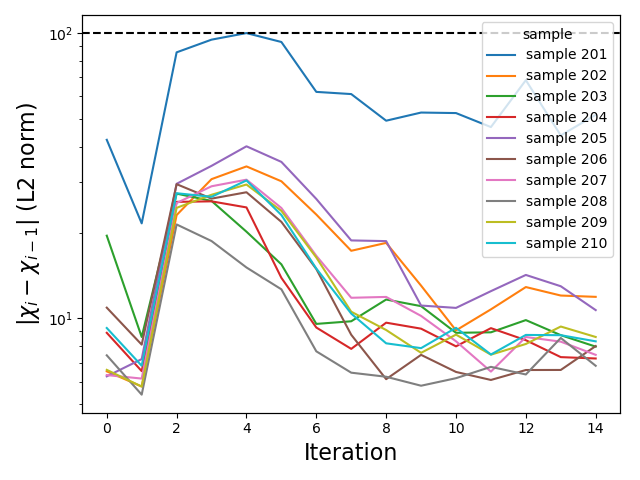
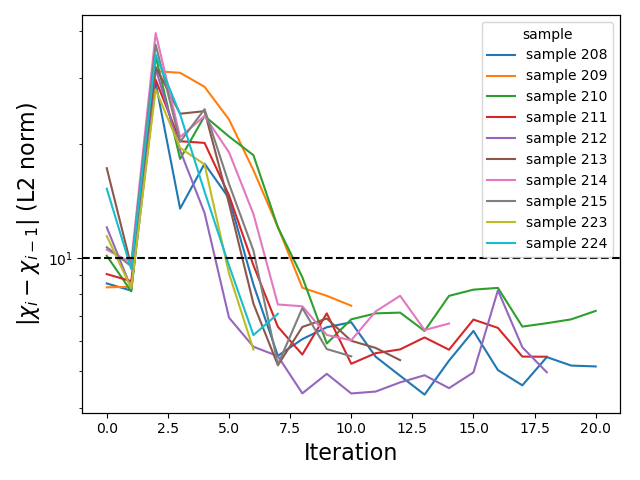
job

diff --git a/test.py b/test.py
@@ -28,6 +28,7 @@ from pylib.utils.xyz import xyz_load, xyz_to_distance
 from scipy.ndimage import uniform_filter
 from scripts.data_generation.modify_maxent import get_samples
 from scripts.get_params import GetEnergy
+from scripts.makeLatexTable_new import getArgs, load_data
 from sklearn.decomposition import PCA
 from sklearn.metrics import mean_squared_error
 
@@ -792,18 +793,18 @@ def make_small(dataset):
 
 def test_convergence(dataset, mode='loss'):
     dir = f'/home/erschultz/{dataset}/samples'
-    b=140; phi=0.03
-    # samples, _ = get_samples(dataset, True)
-    samples = range(201, 211)
+    b=180; phi=0.008; ar=1.5
+    samples, _ = get_samples(dataset, test=True)
+    samples = samples[:10]
     cmap = matplotlib.cm.get_cmap('tab10')
     fig, ax = plt.subplots()
 
-    for ls, max_ent_mode in zip(['-'], ['']):
+    for ls, max_ent_mode in zip(['-'], ['_700k']):
         if max_ent_mode is None:
             continue
         for i, s in enumerate(samples):
             s_dir = osp.join(dir, f'sample{s}')
-            fpath = osp.join(s_dir, f'optimize_grid_b_{b}_phi_{phi}-max_ent10{max_ent_mode}')
+            fpath = osp.join(s_dir, f'optimize_grid_b_{b}_phi_{phi}_spheroid_{ar}-max_ent5{max_ent_mode}')
             assert osp.exists(fpath), fpath
 
             if mode == 'loss':
@@ -816,7 +817,7 @@ def test_convergence(dataset, mode='loss'):
                 for j in range(1, max_it):
                     diff = conv[j] - conv[j-1]
                     convergence.append(np.abs(diff))
-            elif mode == 'param':
+            elif mode.startswith('param'):
                 all_chis = []
                 all_diag_chis = []
                 for j in range(31):
@@ -834,13 +835,20 @@ def test_convergence(dataset, mode='loss'):
 
                 params = np.concatenate((all_diag_chis, all_chis), axis = 1)
 
-                convergence = []
-                for j in range(1, len(params)):
-                    diff = params[j] - params[j-1]
-                    conv = np.linalg.norm(diff, ord = 2)
-                    convergence.append(conv)
-
+                if mode == 'param':
+                    convergence = []
+                    for j in range(1, len(params)):
+                        diff = params[j] - params[j-1]
+                        conv = np.linalg.norm(diff, ord = 2)
+                        convergence.append(conv)
+                elif mode == 'param_mag':
+                    convergence = []
+                    for j in range(1, len(params)):
+                        diff = np.linalg.norm(params[j]) - np.linalg.norm(params[j-1])
+                        conv = np.abs(diff)
+                        convergence.append(conv)
             ax.plot(convergence, ls = ls, c = cmap(i % cmap.N))
+
 
     ax2 = ax.twinx()
     for i, s in enumerate(samples):
@@ -852,7 +860,13 @@ def test_convergence(dataset, mode='loss'):
     ax.set_yscale('log')
     if mode == 'param':
         ax.set_ylabel(r'$|\chi_{i}-\chi_{i-1}|$ (L2 norm)', fontsize=16)
-        ax.axhline(100, c='k', ls='--')
+        # ax.axhline(100, c='k', ls='--')
+        ax.axhline(10, c='k', ls='--')
+        # ax.axhline(1, c='k', ls='--')
+    if mode == 'param_mag':
+        ax.set_ylabel(r'abs$(|\chi_{i}|-|\chi_{i-1}|)$', fontsize=16)
+        ax.axhline(1, c='k', ls='--')
+        ax.axhline(1e-1, c='k', ls='--')
     elif mode == 'loss':
         ax.set_ylabel(r'$|f(\chi)_{i}-f(\chi)_{i-1}|$', fontsize=16)
         ax.axhline(1e-2, c='k', ls='--')
@@ -1007,13 +1021,45 @@ def convergence():
     plt.savefig(osp.join(dir, 'convergence_diff.png'))
     plt.close()
 
+def data_t_test():
+    dataset = 'dataset_02_04_23'
+    samples, _ = get_samples(dataset, test = True)
+    samples_list = samples[:10]
+    args = getArgs(data_folder = f'/home/erschultz/{dataset}',
+                    samples = samples_list)
+    args.experimental = True
+    args.verbose = False
+    args.bad_methods = ['_stop', 'b_140', 'b_261', 'spheroid_2.0', 'max_ent10']
+    args.convergence_definition = 'normal'
+    args.gnn_id = []
+    data, _ = load_data(args)
 
+    k = 5
+    grid_root = 'optimize_grid_b_180_phi_0.008_spheroid_1.5'
+    max_ent_dir = f'{grid_root}-max_ent{k}'
+    metric = 'scc_var'
+    method_1 = max_ent_dir
+    result1 = np.array(data[k][method_1][metric], dtype=np.float64)
+    print(result1, np.mean(result1))
+
+    args.convergence_definition = 'strict'
+    data, _ = load_data(args)
+    method_2 = max_ent_dir + '_700k'
+    result2 = np.array(data[k][method_2][metric], dtype=np.float64)
+    print(result2, np.mean(result2))
+
+
+    stat, pval = ss.ttest_rel(result2, result1)
+    mean_effect_size = np.mean(result2 - result1)
+    mean_effect_size = np.round(mean_effect_size, 3)
+    print(stat, pval)
+    print(mean_effect_size)
 
 if __name__ == '__main__':
     # test_robust_PCA()
     # test_pooling()
     # test_convergence('dataset_02_04_23', 'loss')
-    # test_convergence('dataset_02_04_23', 'param')
+    test_convergence('dataset_02_04_23', 'param_mag')
     # check_dataset('dataset_11_18_22')
     # check_dataset_p_s('dataset_08_17_23')
     # time_comparison()
@@ -1031,7 +1077,8 @@ if __name__ == '__main__':
     # edit_setup('dataset_04_28_23', 'dataset_02_04_23')
     # edit_setup('dataset_05_15_23', 'dataset_02_04_23')
     # make_small('dataset_02_04_23')
-    convergence()
+    # convergence()
+    # data_t_test()
     # compare_s_per_iteration()
     # compare_p_s()
     # test_harmonic_angle()

diff --git a/scripts/makeLatexTable_new.py b/scripts/makeLatexTable_new.py
@@ -10,7 +10,7 @@ from collections import defaultdict
 import matplotlib.pyplot as plt
 import numpy as np
 import scipy.stats as ss
-from compare_contact import plotDistanceStratifiedPearsonCorrelation
+# from compare_contact import plotDistanceStratifiedPearsonCorrelation
 from data_generation.modify_maxent import get_samples
 from pylib.utils import epilib
 from pylib.utils.DiagonalPreprocessing import DiagonalPreprocessing
@@ -333,7 +333,7 @@ def makeLatexTable(data, ofile, header, small, mode = 'w', sample_id = None,
         na_mask: mask for sample_results, True to set to nan
     '''
 
-    metric_labels = {'scc':'SCC', 'scc_var':'SCC var',
+    metric_labels = {'scc':'SCC', 'scc_var':'SCC var', None: '',
                     'rmse-S':'RMSE-Energy', 'rmse-y':'RMSE-Y', 'pearson_pc_1':'Corr PC 1',
                     'rmse-diag':'RMSE-P(s)', 'avg_dist_pearson':'SCC mean',
                     'total_time':'Total Time', 'converged_it':'Converged It.',
@@ -341,7 +341,7 @@ def makeLatexTable(data, ofile, header, small, mode = 'w', sample_id = None,
     if small:
         metrics = ['scc_var', 'rmse-diag', 'pearson_pc_1', 'converged_time']
     else:
-        metrics = ['converged_it', 'converged_time', 'total_time', 'prcnt_converged']
+        metrics = [None, 'scc_var', 'converged_time', 'prcnt_converged']
 
 
     print(f'\nMAKING TABLE-small={small}')
@@ -443,12 +443,14 @@ def makeLatexTable(data, ofile, header, small, mode = 'w', sample_id = None,
                         result = 1 - not_converged / len(converged_it)
                         result *= 100
                         result = np.array([result])
+                    elif metric is None:
+                        result = np.array([np.NaN])
                     else:
                         result = np.array(data[k][method][metric], dtype=np.float64)
                         if nan_mask is not None:
                             result[nan_mask] = np.NaN
 
-                    if 'time' in metric:
+                    if metric is not None and 'time' in metric:
                         roundoff = 1
                     elif metric == 'rmse-S':
                         roundoff = 2
@@ -457,6 +459,10 @@ def makeLatexTable(data, ofile, header, small, mode = 'w', sample_id = None,
                     else:
                         roundoff = 3
 
+                    if metric == 'scc_var':
+                        print(method)
+                        print(result)
+
                     if len(result) > 1:
                         result_mean = np.nanmean(result)
                         # print(metric, result, result_mean)
@@ -464,7 +470,7 @@ def makeLatexTable(data, ofile, header, small, mode = 'w', sample_id = None,
                         if nan_mask is not None:
                             ref_result[nan_mask] = np.nan
                         stat, pval = ss.ttest_rel(ref_result, result)
-                        mean_effect_size = np.mean(ref_result - result)
+                        mean_effect_size = np.mean(result - ref_result)
                         mean_effect_size = np.round(mean_effect_size, 3)
                         if pval < 0.05:
                             print('Significant:', metric, pval, mean_effect_size)
@@ -629,7 +635,6 @@ def main(args=None):
 
         # boxplot(data, osp.join(odir, f'boxplot_{defn}_convergence.png'))
 
-
 if __name__ == '__main__':
     dataset = 'dataset_02_04_23'
     # dataset = 'dataset_09_17_23'
@@ -644,11 +649,11 @@ if __name__ == '__main__':
     data_dir = osp.join('/home/erschultz', dataset)
     args = getArgs(data_folder = data_dir, samples = samples)
     args.experimental = True
-    args.convergence_definition = 'strict'
+    args.convergence_definition = 'normal'
     args.bad_methods = ['_stop', 'b_140', 'b_261', 'spheroid_2.0', 'max_ent10']
     # args.gnn_id = [490, 491, 492, 493, 494, 496, 498, 500, 501]
     # args.gnn_id=[434, 451, 455, 456, 461, 462, 463, 470, 471, 472, 476, 477, 479, 480, 481, 484, 485, 486, 488]
-    args.gnn_id=[490, 505]
+    args.gnn_id=[490, 512]
     main(args)
     # data, converged_mask = load_data(args)
     # boxplot(data, osp.join(data_dir, 'boxplot_test.png'))

diff --git a/max_ent.py b/max_ent.py
@@ -264,7 +264,7 @@ def fit(dataset, sample, samples='samples', bl=140, phi=0.03, vb=None,
     config['diag_chis'] = np.zeros(config['n_small_bins']+config["n_big_bins"])
     # config['diag_chis'] = np.load('/home/erschultz/dataset_02_04_23/samples/sample201/optimize_grid_b_261_phi_0.01-max_ent10/diag_chis_init1.npy')
 
-    root = osp.join(dir, f'{root}-max_ent{k}_longer')
+    root = osp.join(dir, f'{root}-max_ent{k}_700k')
     if osp.exists(root):
         # shutil.rmtree(root)
         print('WARNING: root exists')
@@ -281,10 +281,10 @@ def fit(dataset, sample, samples='samples', bl=140, phi=0.03, vb=None,
     params['iterations'] = 30
     params['parallel'] = 1
     params['equilib_sweeps'] = 10000
-    params['production_sweeps'] = 350000
-    params['stop_at_convergence'] = False
-    params['conv_defn'] = 'normal'
-    params['run_longer_at_convergence'] = True
+    params['production_sweeps'] = 700000
+    params['stop_at_convergence'] = True
+    params['conv_defn'] = 'strict'
+    params['run_longer_at_convergence'] = False
 
     stdout = sys.stdout
     with open(osp.join(root, 'log.log'), 'w') as sys.stdout:
@@ -304,7 +304,7 @@ def cleanup(dataset, sample, samples='samples', bl=140, phi=0.03, vb=None,
                                 k_angle, theta_0,
                                 verbose=False)
 
-    root = osp.join(dir, f'{root}-max_ent{k}_longer')
+    root = osp.join(dir, f'{root}-max_ent{k}_700k')
     if osp.exists(root):
         # if not osp.exists(osp.join(root, 'iteration1')):
         #     shutil.rmtree(root)
@@ -321,7 +321,7 @@ def check(dataset, sample, samples='samples', bl=140, phi=0.03, vb=None,
                                 aspect_ratio, bond_type, k, contact_distance,
                                 verbose=False)
 
-    root = osp.join(dir, f'{root}-max_ent{k}_longer')
+    root = osp.join(dir, f'{root}-max_ent{k}_700k')
     if osp.exists(root):
         if not osp.exists(osp.join(root, 'iteration30')):
             it=0
@@ -374,11 +374,11 @@ def main():
     print('len =', len(mapping))
     # print(mapping)
 
-    with mp.Pool(1) as p:
+    with mp.Pool(10) as p:
         # p.starmap(setup_config, mapping)
-        # p.starmap(fit, mapping)
+        p.starmap(fit, mapping)
         # p.starmap(cleanup, mapping)
-        p.starmap(check, mapping)
+        # p.starmap(check, mapping)
 
 if __name__ == '__main__':
     # modify_maxent()

diff --git a/GNN.py b/GNN.py
@@ -82,11 +82,12 @@ def check(dataset, sample, GNN_ID, sub_dir='samples', b=140, phi=0.03, ar=1.0):
         production = osp.join(gnn_root, 'production_out')
         equilibration = osp.join(gnn_root, 'equilibration')
         if osp.exists(production):
+            config = utils.load_json(osp.join(production, 'config.json'))
             if not osp.exists(osp.join(gnn_root, 'y.npy')):
                 with open(osp.join(production, 'energy.traj'), 'r') as f:
                     last = f.readlines()[-1]
                     it = int(last.split('\t')[0])
-                    prcnt = np.round(it / 500000 * 100, 1)
+                    prcnt = np.round(it / config['nSweeps'] * 100, 1)
                 print(f"{gnn_root} in progress: {prcnt}%")
             else:
                 print(f"{gnn_root} complete")
@@ -111,7 +112,7 @@ def cleanup(dataset, sample, GNN_ID, sub_dir='samples', b=140, phi=0.03, ar=1.0)
         # shutil.rmtree(gnn_root)
         # print(f'removing {gnn_root}')
         if not osp.exists(osp.join(gnn_root, 'equilibration')):
-            # shutil.rmtree(gnn_root)
+            shutil.rmtree(gnn_root)
             print(f'removing {gnn_root}')
 
 
@@ -143,7 +144,7 @@ def main():
     # GNN_IDs = [455, 456, 463, 470, 471, 472, 476, 477]; b=140; phi=0.03; ar=1.0
     # GNN_IDs= [484]; b=140; phi=0.03; ar=1.0
     # GNN_IDs = [485]; b=180; phi=0.01; ar=2.0
-    GNN_IDs = [504]; b=180; phi=0.008; ar=1.5
+    GNN_IDs = [507, 511]; b=180; phi=0.008; ar=1.5
     for GNN_ID in GNN_IDs:
         # for i in samples:
         #     mapping.append((dataset, i, GNN_ID))
@@ -153,7 +154,7 @@ def main():
     print(len(mapping))
     # print(mapping)
 
-    with mp.Pool(1) as p:
+    with mp.Pool(10) as p:
         # p.starmap(cleanup, mapping)
         # p.starmap(fit, mapping)
         p.starmap(check, mapping)

diff --git a/bin/datasets/run_new.py b/bin/datasets/run_new.py
@@ -89,14 +89,14 @@ def run_longer(args, i):
         y_1 = np.loadtxt(osp.join(odir, 'production_out', f'contacts{orig_sweeps}.txt'))
         y_2 = np.loadtxt(osp.join('production_out', f'contacts{new_sweeps}.txt'))
         y_3 = y_1 + y_2
-        np.savetxt(osp.join(odir, 'production_out', f'contacts{orig_sweeps+new_sweeps}.txt'),
+        np.savetxt(osp.join(odir, 'production_out', f'contacts{orig_sweeps+2*new_sweeps}.txt'),
                     y_3, fmt='%i')
-        print(osp.join(odir, 'production_out', f'contacts{orig_sweeps+new_sweeps}.txt'))
+        print(osp.join(odir, 'production_out', f'contacts{orig_sweeps+2*new_sweeps}.txt'))
     sys.stdout = stdout
 
     # cleanup
-    shutil.move('production_out', osp.join(odir, 'production_out2'))
-    shutil.rmtree(odir_scratch)
+    shutil.move('production_out', osp.join(odir, 'production_out3'))
+    # shutil.rmtree(odir_scratch)
 
 def run(args, i):
     odir = osp.join(args.data_folder, f'samples/sample{i}')

diff --git a/scripts/get_params.py b/scripts/get_params.py
@@ -166,7 +166,7 @@ class GetEnergy():
                 model = model.to('cuda:0')
                 data = data.to('cuda:0')
                 with torch.no_grad():
-                    yhat = model(data, verbose)
+                    yhat = model(data, verbose=verbose)
             else:
                 sleep(5)
             num_it += 1
